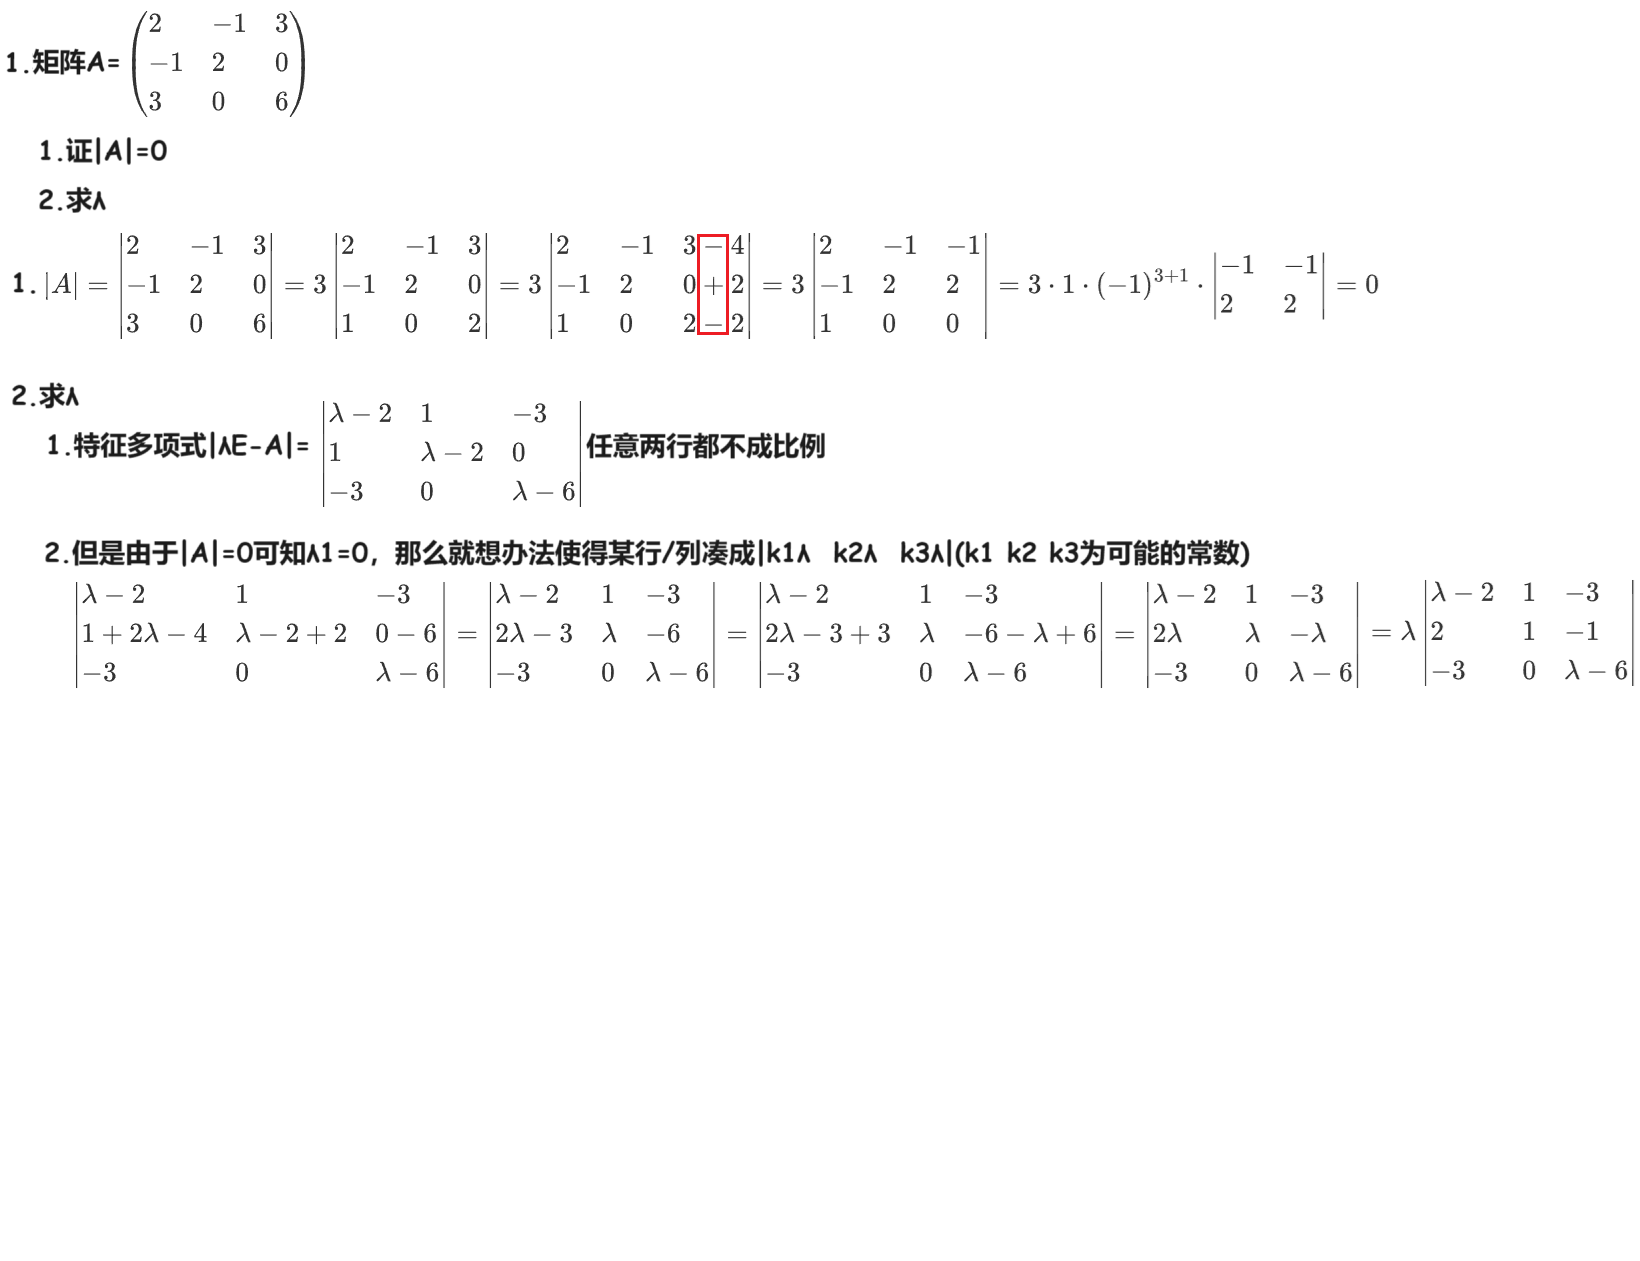
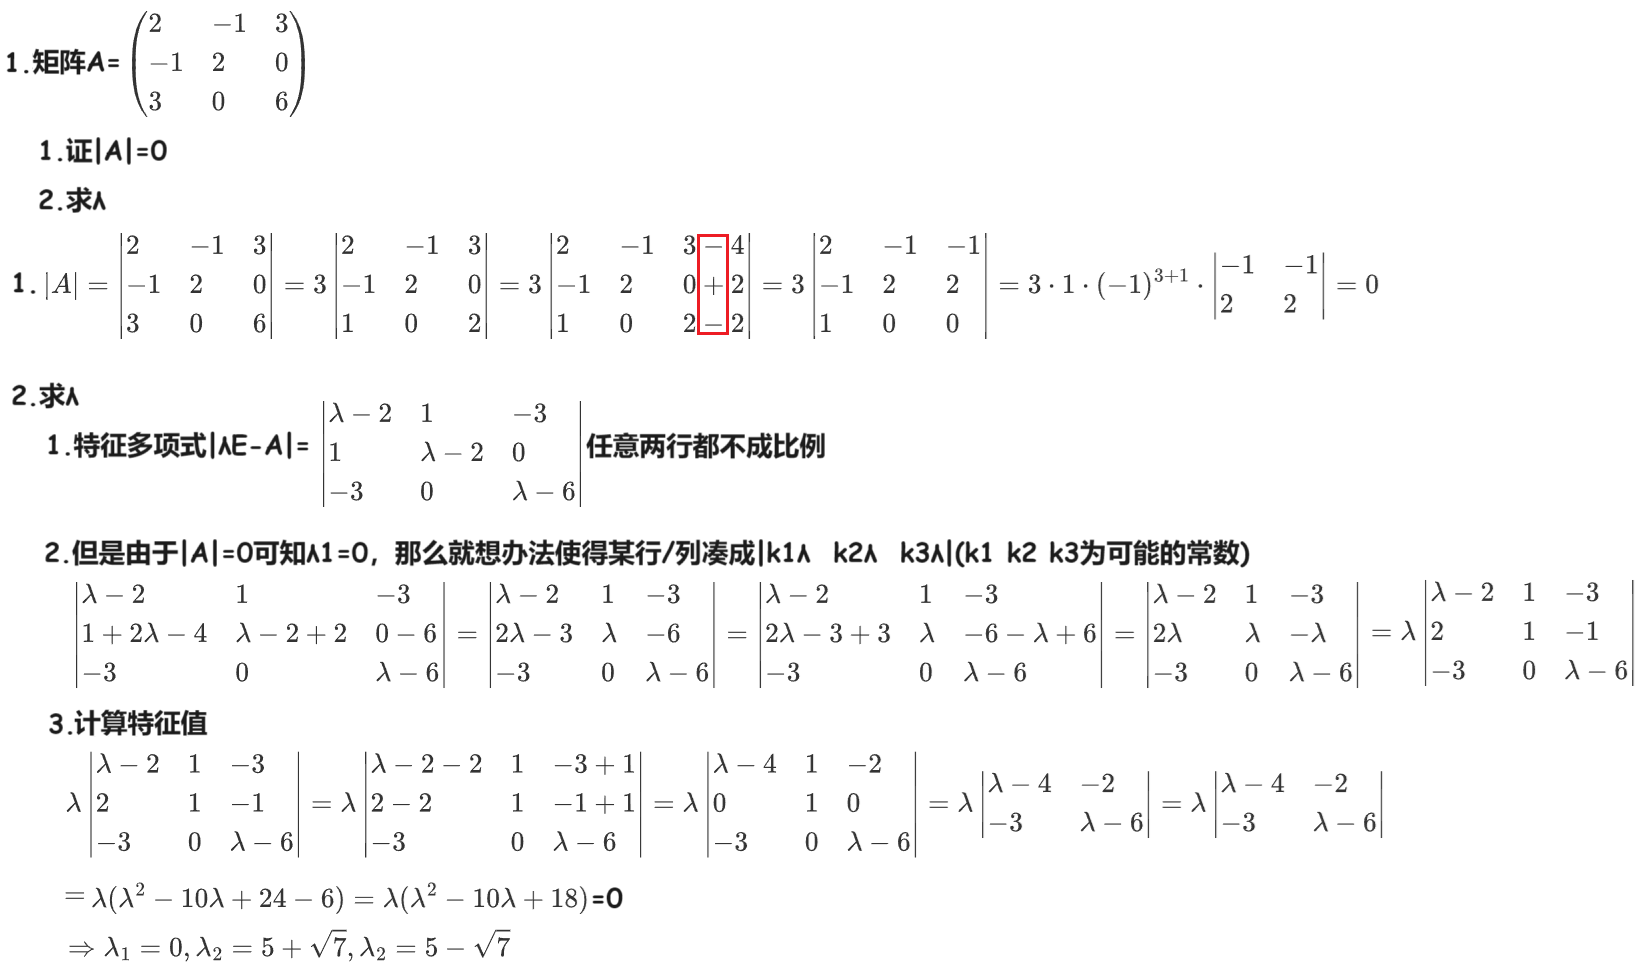
240303

diff --git a/02 线代/01 题集/02 专题/01 求特征值和特征向量/01 【B站 成大器young】快速求特征值/02 题集/02 求矩阵特征值的思路2 已知矩阵其中一个特征值 题集/01 求矩阵特征值人的思路2 已知矩阵其中一个特征值 240303/02 Doc.md b/02 线代/01 题集/02 专题/01 求特征值和特征向量/01 【B站 成大器young】快速求特征值/02 题集/02 求矩阵特征值的思路2 已知矩阵其中一个特征值 题集/01 求矩阵特征值人的思路2 已知矩阵其中一个特征值 240303/02 Doc.md
@@ -1,3 +1,9 @@
+# 00 背诵
+
+<img src="https://cvp.oss-cn-shanghai.aliyuncs.com/picgo/202403032058773.png" alt="image-20240303205803611" style="zoom:50%;" />
+
+
+
 # 01 题目
 
 <img src="https://cvp.oss-cn-shanghai.aliyuncs.com/picgo/202403032015725.png" alt="image-20240303201503637" style="zoom:50%;" />
@@ -5,3 +11,5 @@
 
 
 # 02 答案
+
+<img src="https://cvp.oss-cn-shanghai.aliyuncs.com/picgo/202403032056826.png" alt="image-20240303205658634" style="zoom:50%;" />
